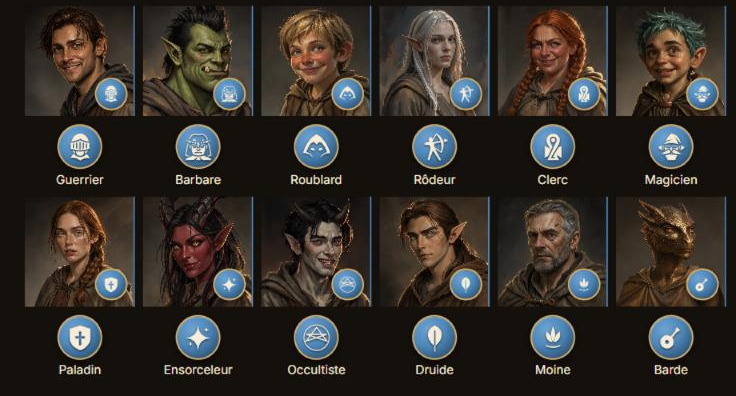
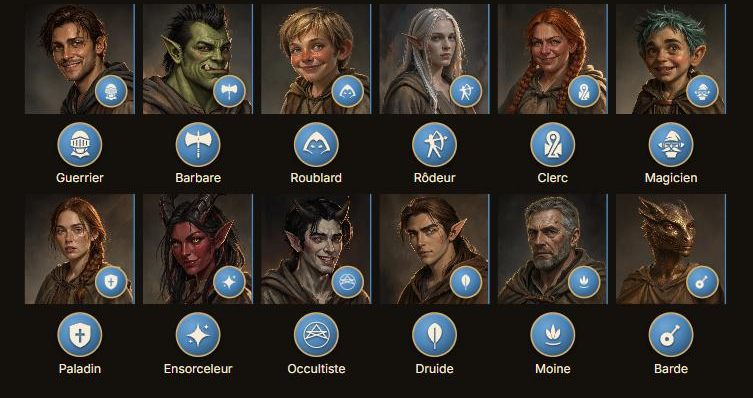
Nouvelle icône du barbare : une hache de guerre à deux tranchants
L'ancien visage barbu (game-icons) était illisible à 28 pixels. Dessin maison
en silhouette pleine, lisible de 200 à 22 pixels ; planche « classes » de
l'aide refaite ; crédits mis à jour.

diff --git a/apps/jeu/src/icones.ts b/apps/jeu/src/icones.ts
@@ -16,7 +16,7 @@ const SVG: Record<string, string> = Object.fromEntries(
 
 const PAR_MODELE: Record<string, string> = {
   guerrier: 'visored-helm',
-  barbare: 'barbarian',
+  barbare: 'barbare',
   roublard: 'hood',
   rodeur: 'bowman',
   clerc: 'holy-symbol',

diff --git a/apps/jeu/src/icones/CREDITS.md b/apps/jeu/src/icones/CREDITS.md
@@ -5,11 +5,11 @@ Pictogrammes issus de [game-icons.net](https://game-icons.net) (dépôt https://
 | Fichier | Auteur |
 | --- | --- |
 | visored-helm, hood, bowman, holy-symbol, wolf-head, direwolf, fanged-skull | Lorc |
-| barbarian, wizard-face, goblin-head, orc-head, shambling-zombie, ogre, bandit, robber, brute | Delapouite |
+| wizard-face, goblin-head, orc-head, shambling-zombie, ogre, bandit, robber, brute | Delapouite |
 | skeleton | Skoll |
 | hyena-head, warlord-helmet | Caro Asercion |
 | spider-face | Carl Olsen |
 
-Dessins maison (originaux, sans source externe) : paladin, ensorceleur, occultiste, druide, moine, barde. Ils suivent le même format (512×512, couleur héritée).
+Dessins maison (originaux, sans source externe) : barbare (une hache de guerre à deux tranchants, qui remplace un visage trop détaillé de game-icons.net, peu lisible en petit), paladin, ensorceleur, occultiste, druide, moine, barde. Ils suivent le même format (512×512, couleur héritée).
 
 Pictogrammes des cartes (sorts, écoles de magie, coûts, actions de base, armes, aptitudes) : dessins maison, originaux, écrits en SVG dans `apps/jeu/src/pictogrammes.ts` (aucune source externe). Voir `docs/PICTOGRAMMES.md`.
